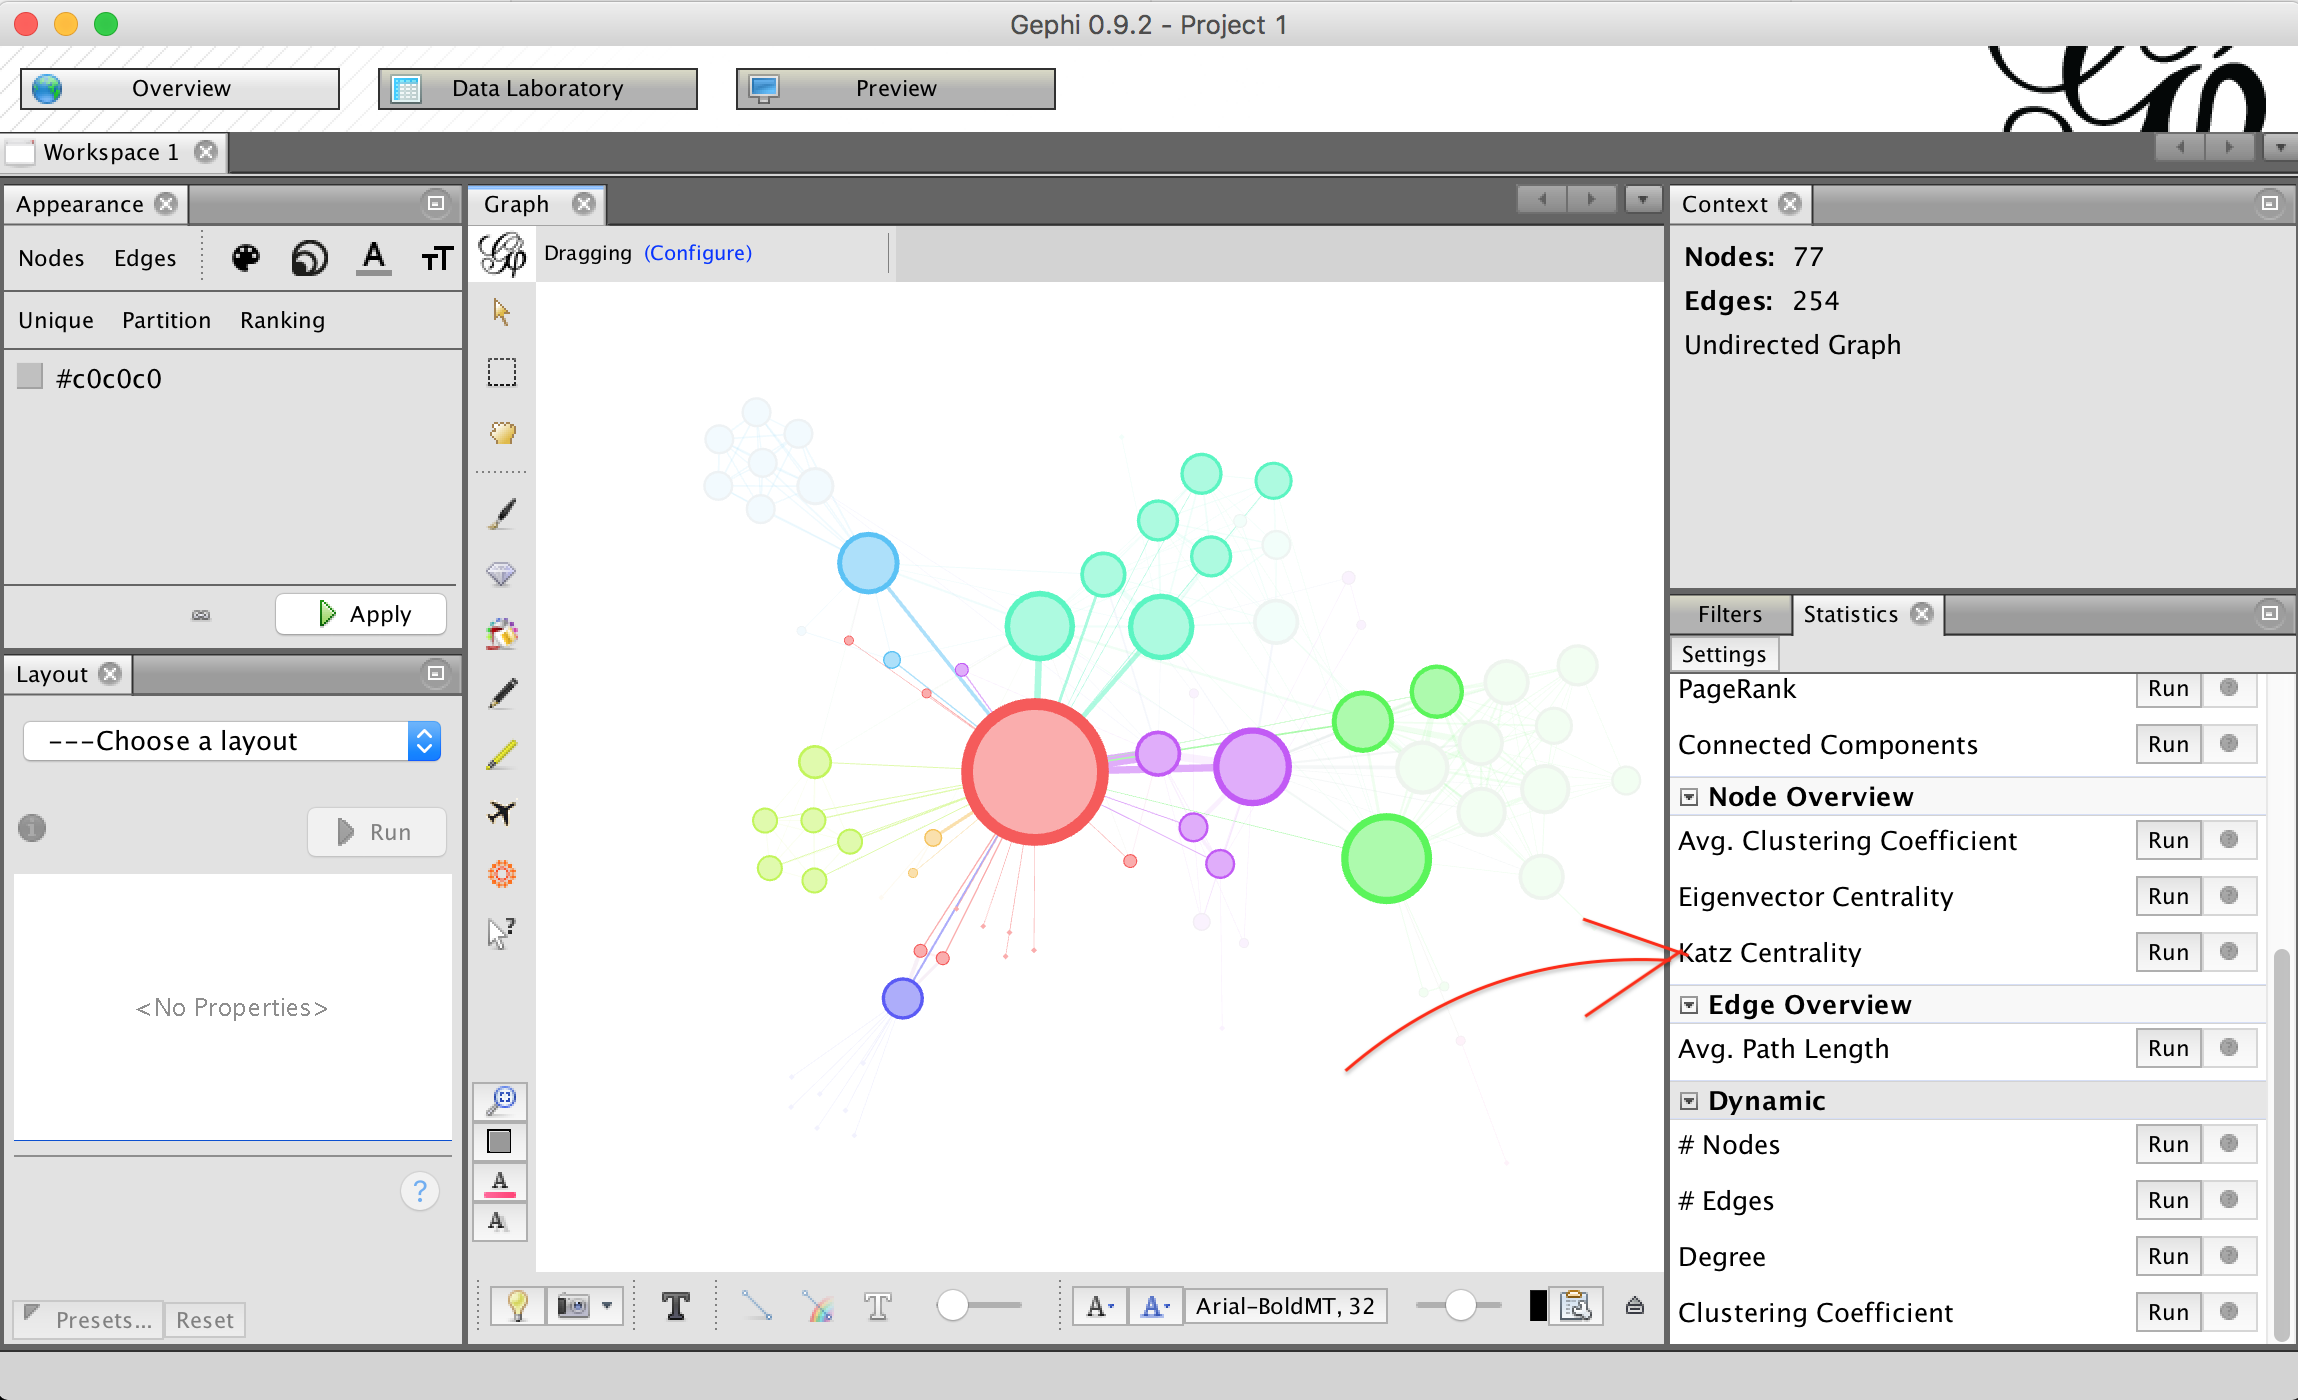
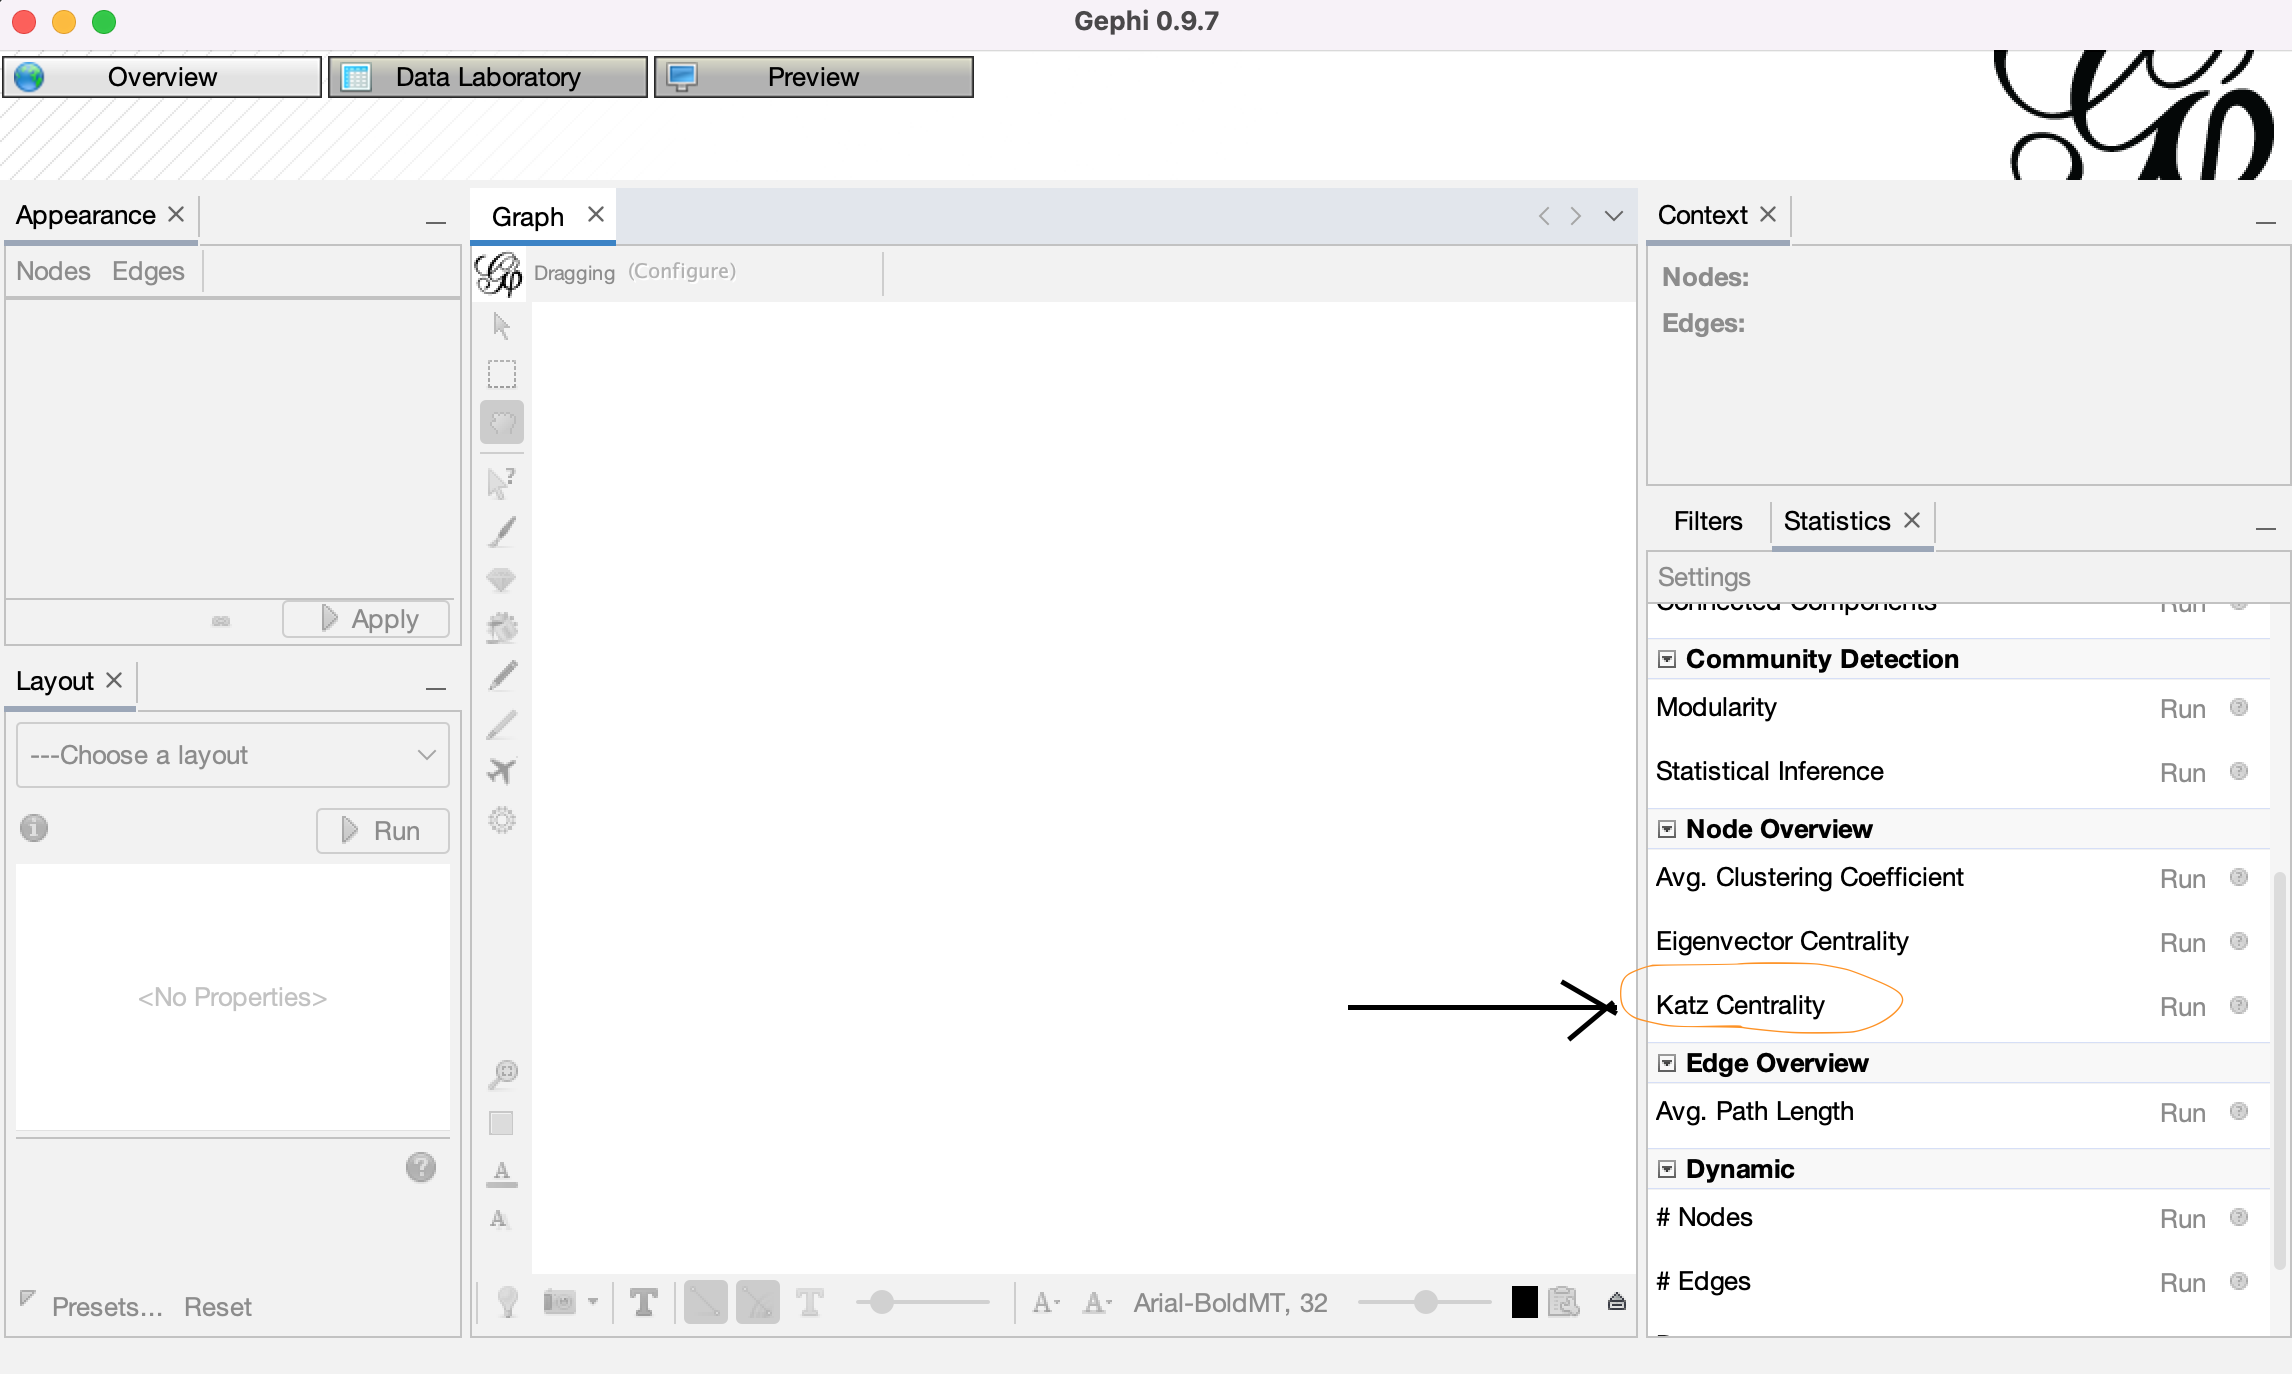
Fix broken link to source code, add absolute URLs to images in README. (#275)
* Fix broken link to source code, add absolute URLs to images in README.

* Mention that Katz Centrality now appears under Node Overview section.

* Update pom.xml and img location (better on GH)

* Mention Gephi issue when developing on Mac.

* Fix typo.

diff --git a/modules/KatzCentrality/README.md b/modules/KatzCentrality/README.md
@@ -14,20 +14,23 @@ The Katz (sometimes also called Katz-Bonacich) centrality measures with
 the parameter of the network nodes are defined by the `n x 1` vector:
 
 
-![Katz Centrality Formula](./KatzCentralityFormula.png)
+![Katz Centrality Formula](https://github.com/gephi/gephi-plugins/raw/katz-centrality-plugin/modules/KatzCentrality/KatzCentralityFormula.png)
 
 
 ### Installation
 
-If the official Gephi distribution doesn't include this plugin yet, it can be installed as follows:
+Open Gephi application, in the menu go to `Tools->Plugins->Available Plugins`. Click `Check for Newest` and search for `Katz Centrality` in the search text box. Select the checkbox and click `Install` and restart Gephi. The plugin should appear under `Node Overview` tab.
 
-- open Gephi application
-- go to Plugins menu, search for Katz Centrality and Install
-- finally select Restart Now
+The plugin can also be installed manually:
+- [Download](https://gephi.org/plugins/#/plugin/katz-centrality) the plugin.
+- Open Gephi application.
+- Go to Tools->Plugins menu, click on `Downloaded` tab, `Add Plugins` and select the plugin file, finally click `Install`. Restart the application.
 
 After Gephi application re-opens the plugin will be available
-under Statistics plugins:
+under Node Overview plugins:
 
-![Katz Centrality Plugin Location](./gephi_with_katz.png)
+![Katz Centrality Plugin Location](https://github.com/gephi/gephi-plugins/raw/katz-centrality-plugin/modules/KatzCentrality/gephi_with_katz.png)
 
+### Contributions
 
+Any contributions to the plugin are welcome! Please note that currently there's an [issue](https://github.com/gephi/gephi/issues/1059) with Gephi development on Mac.

diff --git a/README.md b/README.md
@@ -95,7 +95,7 @@ To debug Gephi with your plugin, right click on the `gephi-plugins` project and 
 
 To run Gephi with your plugin pre-installed when you click `Run`, create a `Maven` run configuration and enter `org.gephi:gephi-maven-plugin:run` in the command field. The working directory is simply the current project directory.
 
-To debug Gephi with your plugin, create a `Remote` configuration and switch the `Debugger mode` option to `Listen`. Then create a `Maven` run configuration like abobe but add `-Drun.params.debug="-J-Xdebug -J-Xnoagent -J-Xrunjdwp:transport=dt_socket,suspend=n,server=n,address=5005"` into the `Runner` > `VM Options` field. Then, go to the `Run` menu and first run debug with the remote configuration and then only run debug with the Maven configuration.
+To debug Gephi with your plugin, create a `Remote` configuration and switch the `Debugger mode` option to `Listen`. Then create a `Maven` run configuration like above but add `-Drun.params.debug="-J-Xdebug -J-Xnoagent -J-Xrunjdwp:transport=dt_socket,suspend=n,server=n,address=5005"` into the `Runner` > `VM Options` field. Then, go to the `Run` menu and first run debug with the remote configuration and then only run debug with the Maven configuration.
 
 ## FAQ
 
